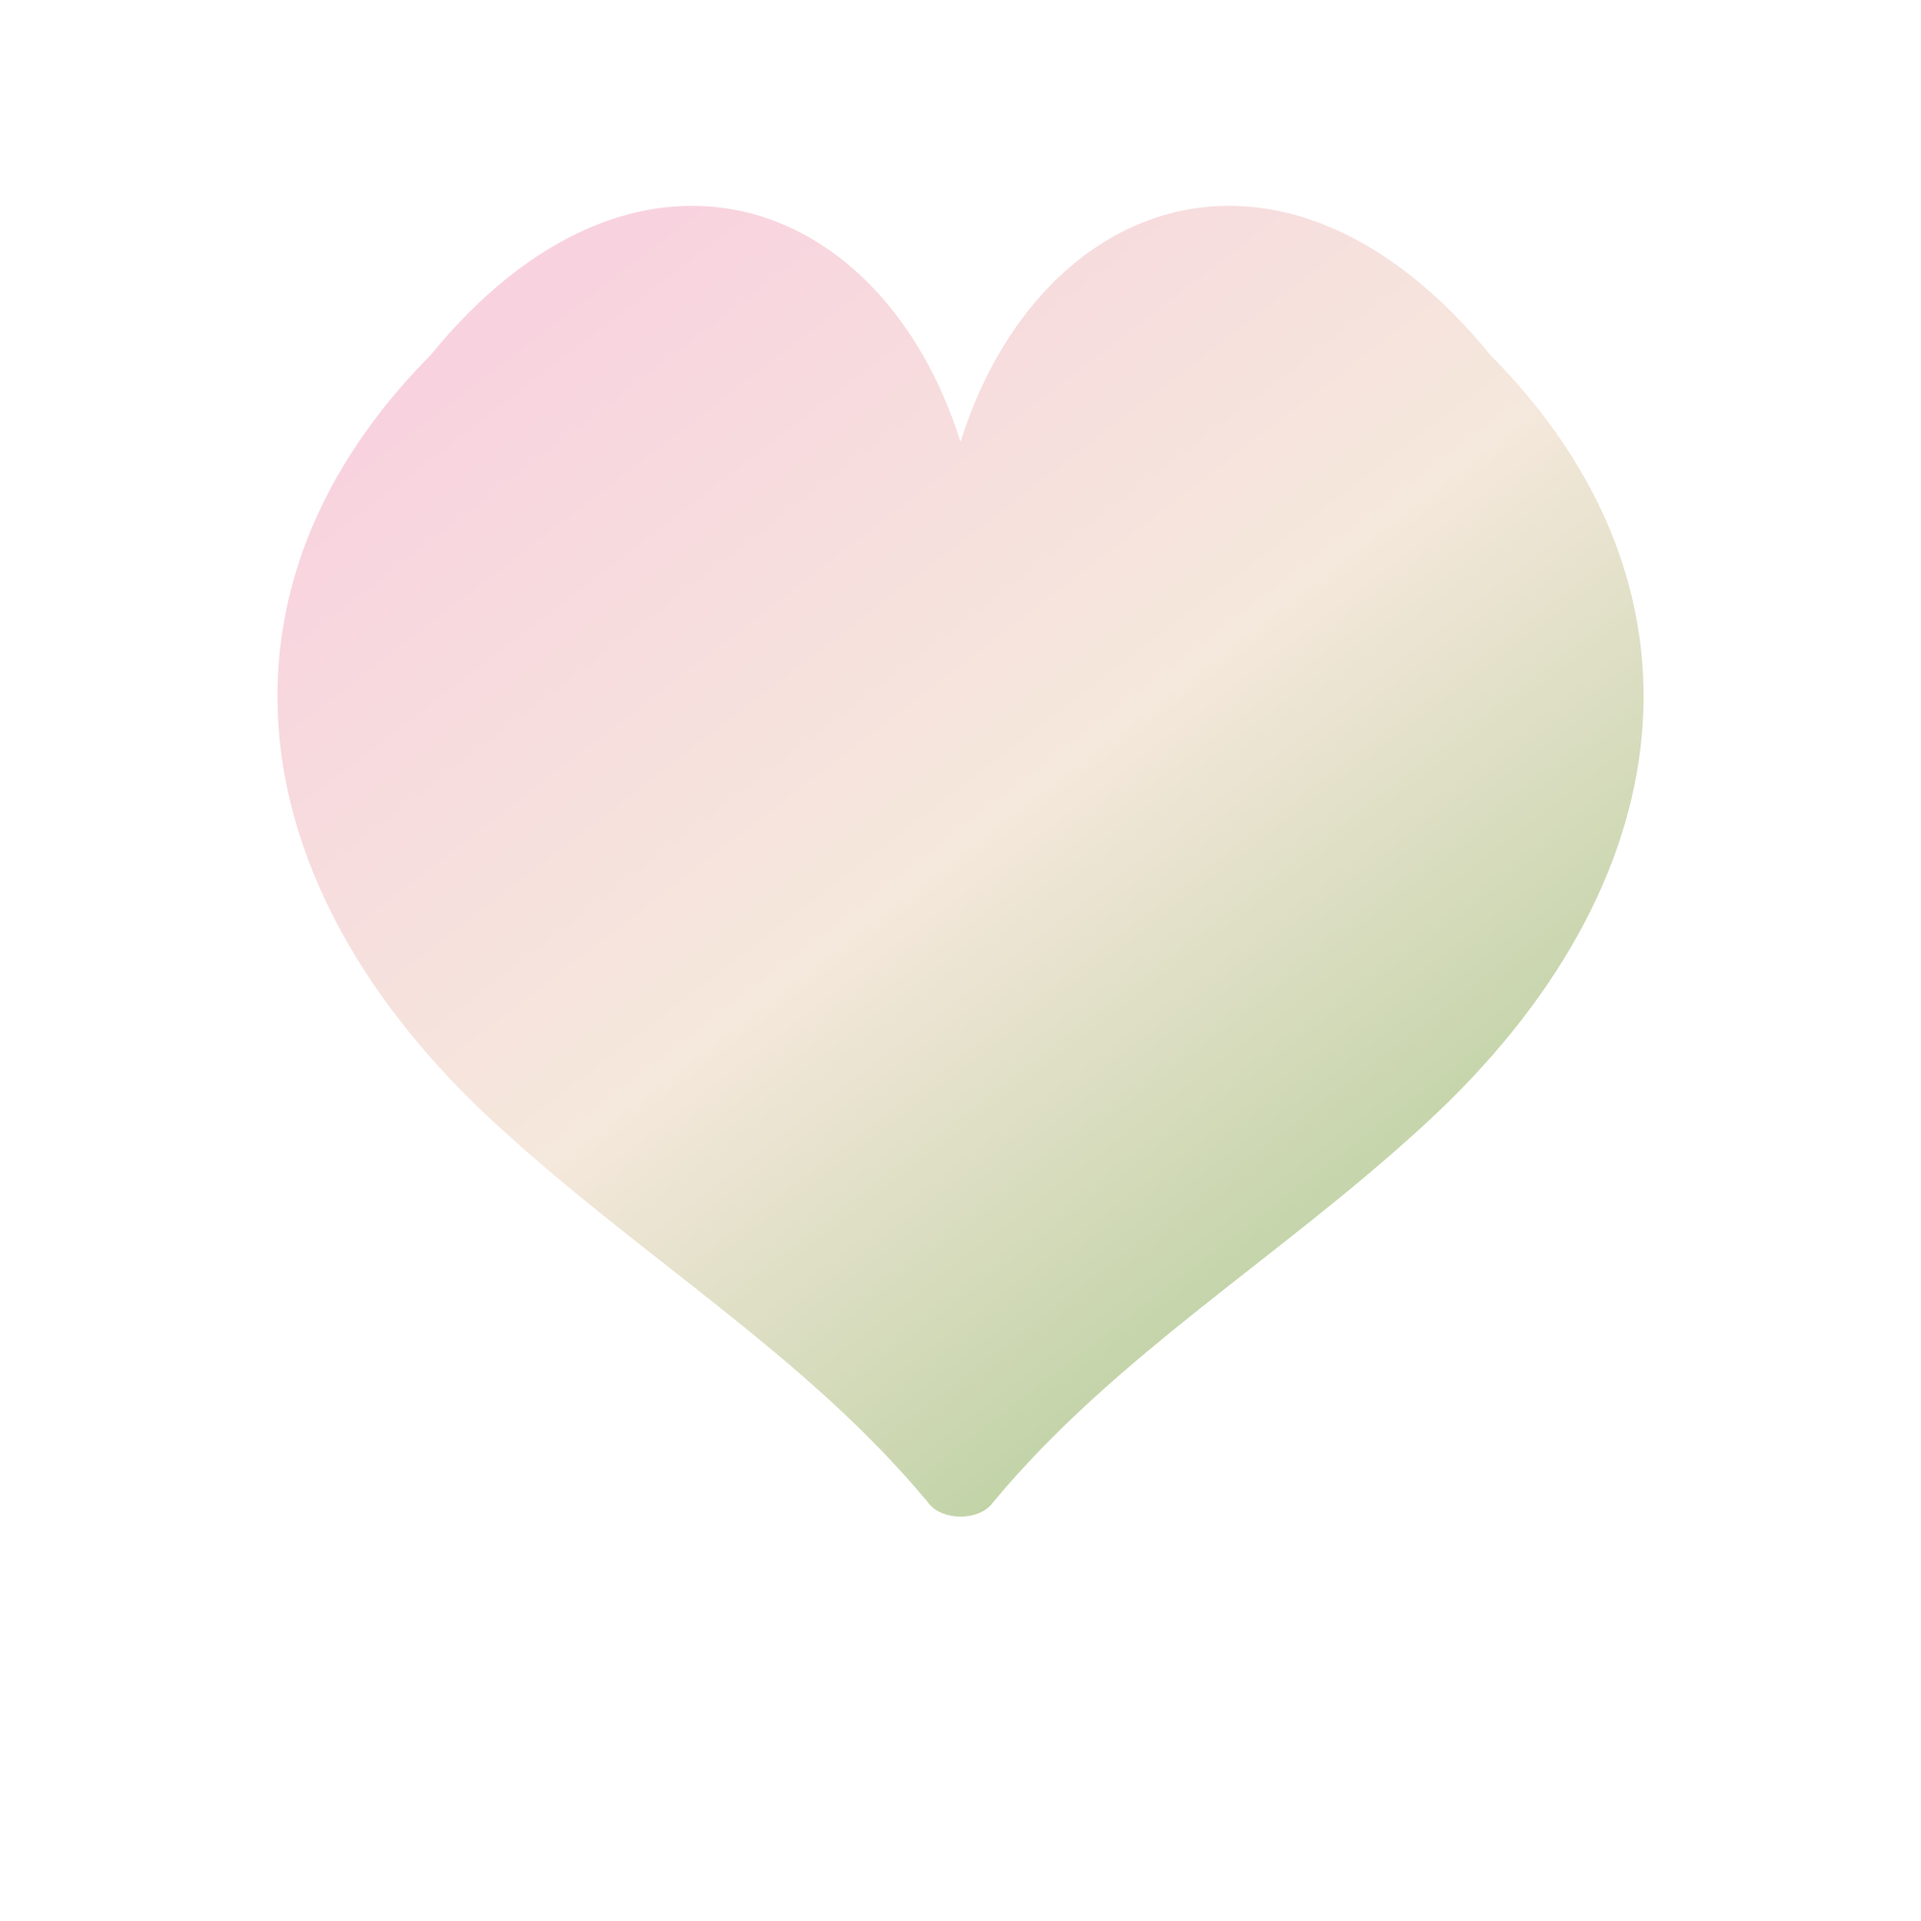
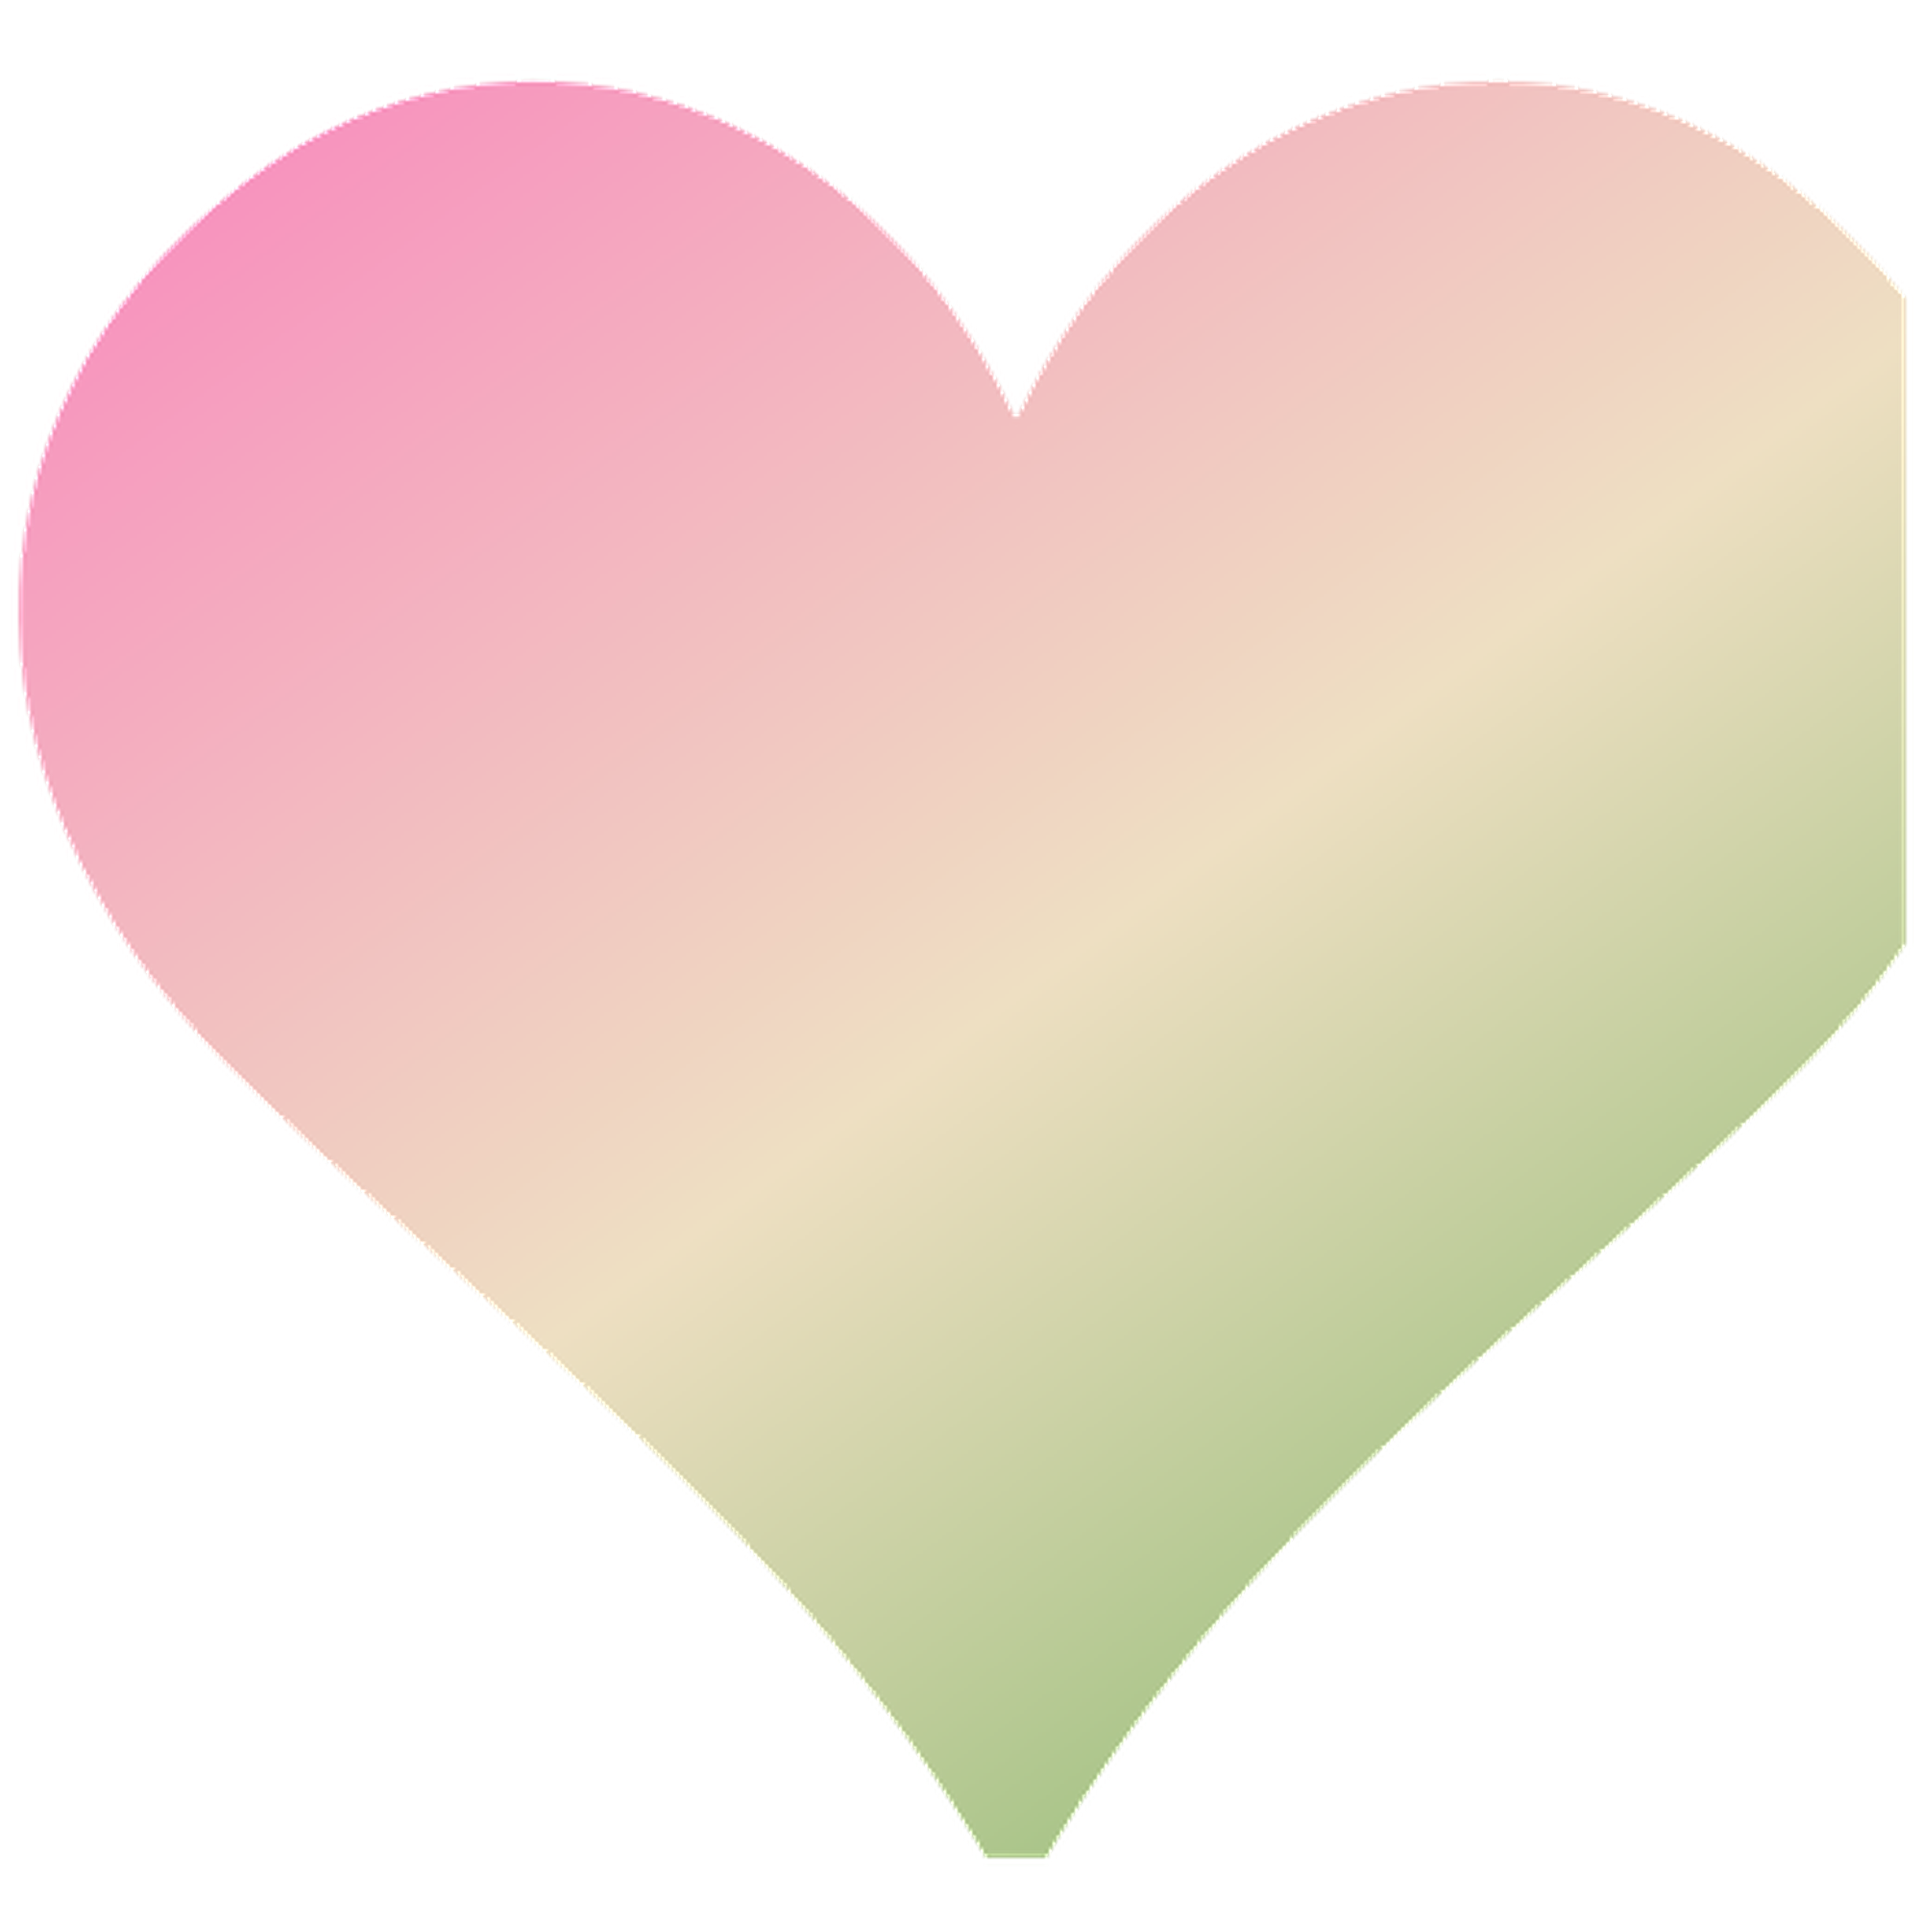
לב חדש (אפשרות #5 מהדרייב) + איסור מוחלט על מתן קוד הנחה בצ'אט/טלפון
- הוחלף הלב (favicon + פס הסטטיסטיקות) לאפשרות #5 "רווי יותר" מתוך
  8 האפשרויות שהוכנו בדרייב, לפי בחירה מפורשת.
- הוסר כליל הכלי list_active_coupons משני הבוטים (צ'אט האתר וגם
  הבוט הטלפוני) — קוד הנחה לא יינתן/יומצא בשום מקרה, גם כשנשאלים
  עליו במפורש. הדרך היחידה להנחה נשארת הרשמה אמיתית לניוזלטר, שם
  נשלח קוד אישי חד-פעמי אוטומטית במייל.
Claude-Session: https://claude.ai/code/session_01AtGALxo5cLH4ertbeUL7uZ

diff --git a/src/lib/ai-tools.server.ts b/src/lib/ai-tools.server.ts
@@ -218,29 +218,15 @@ export function buildAssistantTools(opts?: { isAuthenticated?: boolean }) {
       },
     }),
 
-    list_active_coupons: tool({
-      description:
-        "מחזירה את קודי הקופון הכלליים הפעילים כרגע במסד הנתונים (לא קודים אישיים חד-פעמיים שנשלחו למישהי ספציפית, ולא קוד ברוכה הבאה של הניוזלטר — זה מגיע רק דרך הרשמה בפועל לניוזלטר). תמיד השתמשי בזה לפני שאת מזכירה קוד קופון ללקוחה — אסור להמציא או להיזכר בקוד ישן, קודי הקופון משתנים. אל תזכירי קוד קופון מיוזמתך — רק כשהלקוחה שואלת במפורש על הנחה/מחיר יותר זול.",
-      inputSchema: z.object({}),
-      execute: async () => {
-        const { supabase } = await import("@/integrations/supabase/client");
-        const { data, error } = await supabase
-          .from("coupons")
-          .select("code, discount_percent, discount_amount, expires_at")
-          .eq("active", true)
-          .eq("single_use", false)
-          // The newsletter's own welcome coupon is earned by actually
-          // subscribing (a personal one-time code is minted and emailed on
-          // signup, see newsletter.functions.ts) — the chat bot must never
-          // hand the shared template code straight to anyone who asks,
-          // that defeats the whole point of the signup incentive.
-          .eq("newsletter_default", false);
-        if (error || !data?.length) return { coupons: [] };
-        const now = Date.now();
-        const live = data.filter((c) => !c.expires_at || new Date(c.expires_at).getTime() > now);
-        return { coupons: live.map((c) => ({ code: c.code, discountPercent: c.discount_percent, discountAmount: c.discount_amount })) };
-      },
-    }),
+    // There used to be a list_active_coupons tool here that let the bot
+    // recite a real coupon code straight in chat/voice to anyone who asked.
+    // Removed per explicit request — discount codes are only ever meant to
+    // reach a customer as a personal one-time code by email, minted on an
+    // actual newsletter signup (see issuePersonalCoupon in
+    // newsletter.functions.ts). No general "give the code away in
+    // conversation" path should exist at all, even when asked directly —
+    // the bot now always points a discount question at the newsletter
+    // signup form instead (see the SYSTEM/toolRules prompts).
 
     create_studio_booking: tool({
       description: `יוצרת שריון סטודיו אמיתי (לא רק בדיקה!) עבור לקוחה עם חשבון אישי אמיתי שמתקשה להשלים את התהליך לבד באתר. זה כלי רציני — לפני שמשתמשים בו חובה:

diff --git a/src/lib/voice-chat.server.ts b/src/lib/voice-chat.server.ts
@@ -470,7 +470,8 @@ export async function runVoiceTurn(messages: VoiceMessage[], callerPhone: string
   const extraKnowledge = await getBotKnowledgeText();
   const botVoiceGender = await getBotVoiceGender();
 
-  const toolRules = `\n\nהיום ${now.date}, השעה בישראל ${now.time}. יש לך גישה אמיתית ליומן הסטודיו ולמלאי האביזרים — בדוק תמיד עם הכלים (check_studio_availability / check_prop_availability / find_next_available_days / quote_studio_price / list_active_coupons / hebrew_date_to_gregorian), בכל פעם מחדש, אף פעם אל תניח או תסתמך על תשובה קודמת באותה שיחה.
+  const toolRules = `\n\nהיום ${now.date}, השעה בישראל ${now.time}. יש לך גישה אמיתית ליומן הסטודיו ולמלאי האביזרים — בדוק תמיד עם הכלים (check_studio_availability / check_prop_availability / find_next_available_days / quote_studio_price / hebrew_date_to_gregorian), בכל פעם מחדש, אף פעם אל תניח או תסתמך על תשובה קודמת באותה שיחה.
+אם עולה נושא הנחה/קוד קופון — אסור לך לתת או להמציא קוד בשום מקרה, גם כשנשאלת במפורש. תגידי בחמימות שהנחות ניתנות רק דרך הרשמה לניוזלטר באתר (טופס בתחתית כל עמוד), שם נשלח קוד אישי חד-פעמי למייל.
 כשהלקוחה שואלת משהו שקל יותר לראות בעיניים (תמונות מהסטודיו, קטלוג האביזרים המלא, גלריה) — הצע לה קודם, בקצרה, שאפשר גם לחפש בגוגל "סטודיו סוויט בייבי" ולראות הכול באתר. אם היא אומרת שזה לא נוח לה כרגע (בלי גישה נוחה לאינטרנט, מעדיפה לסגור עכשיו בטלפון וכו׳) — המשך ותעזור לה לשריין ישירות בשיחה, בלי לחזור ולהפנות אותה לאתר.${
     caller?.name
       ? `\n\nזיהינו את המתקשרת: יש לה כבר אזור אישי באתר בשם "${caller.name}"${caller.email ? `, אימייל ${caller.email}` : ""}. פני אליה בשמה (לא "גברת" או "לקוחה יקרה"). ${caller.upcomingText ?? ""} אם משריינים תור: את כבר יודעת את השם והאימייל שלה — אל תשאלי אותם מחדש כאילו זו פעם ראשונה. במקום זה, ממש לפני קריאה ל-create_phone_booking, רק תאשרי בקצרה בעל-פה ("לשלוח את זה ל${caller.email ?? "המייל שיש לנו"}, כרגיל?") — ואם היא אומרת שזה השתנה, תשתמשי בכתובת החדשה שהיא נותנת.`
